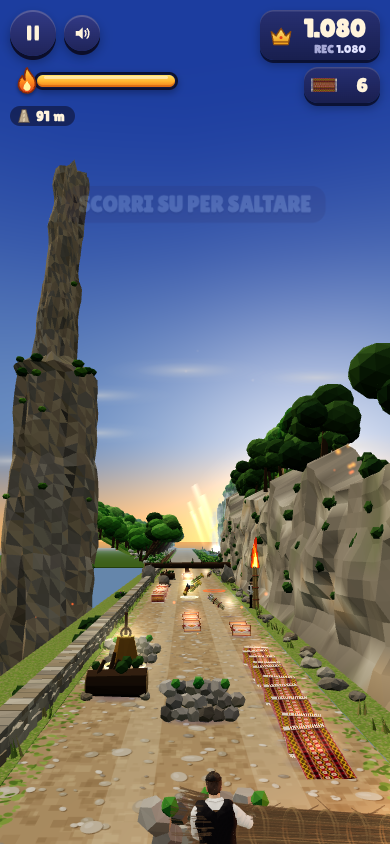
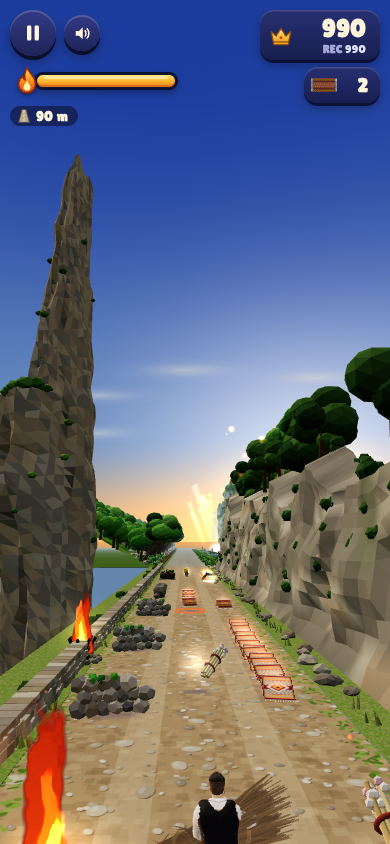
v5s27j: torre secondo la scheda 3D: piede di massi, spalla sporgente a meta' con cespugli, parte alta stretta e frastagliata

diff --git a/src/game/biomes/builders/nature.js b/src/game/biomes/builders/nature.js
@@ -259,34 +259,37 @@ export function buildPinnacle(seed = 3) {
   // Low-poly a facce piatte, anelli abbastanza fitti da tenere le facce quasi quadrate. Colore per faccia.
   const k = new Kit(seed);
   const r = rng(seed * 13 + 5);
-  const H = 150, base = -48, SH = 0.62;
+  const H = 150, base = -48, SH = 0.58;
   const NR = 30, NV = 64;
   // fessure verticali (angolo, profondita', larghezza) e cenge (quota relativa, rientro)
   const cracks = [[0.4, 0.3, 0.16], [1.5, 0.22, 0.12], [2.6, 0.34, 0.18], [3.7, 0.2, 0.1], [4.6, 0.28, 0.14], [5.5, 0.18, 0.1]];
   const ledges = [[0.18, 0.06], [0.33, 0.05], [0.47, 0.07], [SH, 0.0], [0.78, 0.05], [0.88, 0.04]];
   const wrap = (d) => Math.atan2(Math.sin(d), Math.cos(d));
   const prof = (t) => {
-    if (t < 0.1) return 9.2 + 9 * Math.pow(1 - t / 0.1, 1.6);                      // piede largo nel pendio
-    if (t < SH) { const u = (t - 0.1) / (SH - 0.1); return 9.2 + 1.6 * Math.sin(u * Math.PI * 0.8) - 1.4 * u; }   // fusto, panciuto in basso-meta'
-    return 5.6 - (t - SH) * 3.0;                                                      // blocco superiore
+    if (t < 0.12) return 9.4 + 8 * Math.pow(1 - t / 0.12, 1.4);                     // v5s27j: piede largo di massi
+    if (t < SH) { const u = (t - 0.12) / (SH - 0.12); return 9.4 - 1.2 * u + 0.8 * Math.sin(u * Math.PI); }   // fusto
+    const u = (t - SH) / (1 - SH); return 7.2 - 4.2 * Math.pow(u, 1.3);             // parte alta stretta che si assottiglia
   };
+  // v5s27j: spalla sporgente a meta' altezza su un lato (verso sinistra guardando dalla via), con la cengia piatta in cima
+  const SHA = 2.9, shoulder = (a, t) => { const d = Math.abs(wrap(a - SHA)); if (d > 1.1 || t < 0.3 || t > SH + 0.01) return 0;
+    const w = Math.pow(1 - d / 1.1, 0.7), h = t < 0.42 ? (t - 0.3) / 0.12 : 1; return 6.5 * w * h; };
   const P = (u, v) => {
     const a = u * Math.PI * 2, t = v;
     let R = prof(t);
     // sezione irregolare e spigolosa: poche facce larghe (spigoli sfalsati), piu' squadrata in alto
-    const sq = t >= SH ? 1 / Math.pow(Math.pow(Math.abs(Math.cos(a + 0.3)), 3) + Math.pow(Math.abs(Math.sin(a + 0.3)), 3), 1 / 3) * 0.82 : 1;
+    const sq = 1;
+    R += shoulder(a, t);
     R *= sq * (1 + 0.12 * fbm(Math.cos(a) * 1.4, t * 3.5, Math.sin(a) * 1.4 + seed, 2));
     for (const [ca, dep, w] of cracks) { const d = wrap(a - ca - 0.25 * Math.sin(t * 9 + ca)); R *= 1 - dep * Math.max(0, 1 - Math.abs(d) / w) * (t < 0.05 ? 0.3 : 1); }
     for (const [lt, dep] of ledges) { const d = t - lt; if (d > 0 && d < 0.035) R *= 1 - dep * (1 - d / 0.035); }   // cenge: rientro sopra ogni gradino
     // spalla: gradino netto tra fusto e blocco superiore
-    if (t > SH - 0.012 && t < SH + 0.012) R = Math.max(R, prof(SH - 0.02) * 0.95);
     // cima spaccata: due lobi separati da un taglio
     if (t > 0.9) { const d = Math.abs(wrap(a - 1.9)); R *= 1 - 0.45 * Math.max(0, 1 - d / 0.5) * (t - 0.9) / 0.1; }
     let y = base + t * H;
-    if (v === 1) y += 3 * Math.max(0, Math.cos(a - 4.2)) - 1.5 + r.range(-0.6, 0.6);      // cima inclinata e frastagliata
+    if (v === 1) y += 7 * Math.max(0, Math.cos(a - 4.2)) + 4 * Math.max(0, Math.cos(2 * a + 1)) - 3 + r.range(-0.8, 0.8);   // punte frastagliate      // cima inclinata e frastagliata
     else if (v > 0) y += r.range(-0.35, 0.35) * (H / NV);                                    // quote sfalsate: niente anelli regolari
-    const off = t >= SH ? -2.0 + (t - SH) * 5 : 0;                                             // blocco superiore spostato e inclinato
-    const fl = v === 1 ? 0.25 : 1;
+    const off = t >= SH ? 1.2 * (t - SH) / (1 - SH) : 0;                                             // blocco superiore spostato e inclinato
+    const fl = v === 1 ? 0.35 : 1;
     let x = Math.cos(a) * R * fl + off, z = Math.sin(a) * R * 0.86 * fl;
     x += noise3(x / 4, y / 6, z / 4) * 0.8; z += noise3(z / 4 + 7, y / 6, x / 4) * 0.8;
     if (v === 0) y = base - 3;
@@ -324,9 +327,12 @@ export function buildPinnacle(seed = 3) {
   const tuft = (j0, j1, n, s0, s1) => { for (let q = 0; q < n; q++) { const j = j0 + Math.floor(r() * (j1 - j0)), i = Math.floor(r() * NR), p = G2[j][i];
     const cx = j >= SH * NV ? -2 : 0; const dx = p[0] - cx, dz = p[2], dl = Math.hypot(dx, dz) || 1, s = r.range(s0, s1);
     k.add(G.ico(s, 0), r.pick(leaf), { x: p[0] + dx / dl * s * 0.3, y: p[1] + s * 0.3, z: p[2] + dz / dl * s * 0.3, flat: true, sy: 0.7, vary: 0.2 }); } };
-  tuft(Math.round(SH * NV) - 1, Math.round(SH * NV) + 1, 12, 1.0, 1.8);   // spalla
+  for (let q = 0; q < 26; q++) { const a = SHA + r.range(-0.8, 0.8), j = Math.round(SH * NV), i = Math.round(((a / (Math.PI * 2)) % 1 + 1) % 1 * NR) % NR, p = G2[j][i], s = r.range(1.4, 2.6);   // spalla: cespugli sulla cengia
+    k.add(G.ico(s, 0), r.pick(leaf), { x: p[0] * r.range(0.75, 0.98), y: p[1] + s * 0.4, z: p[2] * r.range(0.75, 0.98), flat: true, sy: 0.7, vary: 0.2 }); }
   tuft(Math.round(0.3 * NV), Math.round(0.58 * NV), 7, 0.7, 1.3);         // fessure del fusto (pochi)
-  tuft(Math.round(0.7 * NV), Math.round(0.85 * NV), 4, 0.6, 1.0);         // blocco superiore
+  tuft(Math.round(0.66 * NV), Math.round(0.86 * NV), 8, 0.6, 1.2);         // blocco superiore
+  for (let q = 0; q < 12; q++) { const a = r() * Math.PI * 2, rr = r.range(9, 15); addRock(k, r, Math.cos(a) * rr, base + 16 + r.range(-2, 2), Math.sin(a) * rr * 0.86, r.range(2.5, 4.5), ['#9a9083', '#8f877c', '#a49a8c', '#8a7a66'], { squash: 0.75, tilt: true }); }   // massi del piede, appoggiati
+  tuft(Math.round(0.1 * NV), Math.round(0.16 * NV), 5, 0.8, 1.4);
   // pendio al piede: macchia bassa (la roccia si fonde col terreno)
   for (let q = 0; q < 26; q++) { const a = r() * Math.PI * 2, rr = r.range(14, 24); k.add(G.ico(r.range(1.8, 3.4), 0), r.pick(['#2c4626', '#36522c', '#3f5e30', '#4a6a36']), { x: Math.cos(a) * rr, y: base + r.range(1, 6), z: Math.sin(a) * rr, flat: true, sy: 0.8, vary: 0.2 }); }
   return k.build();
